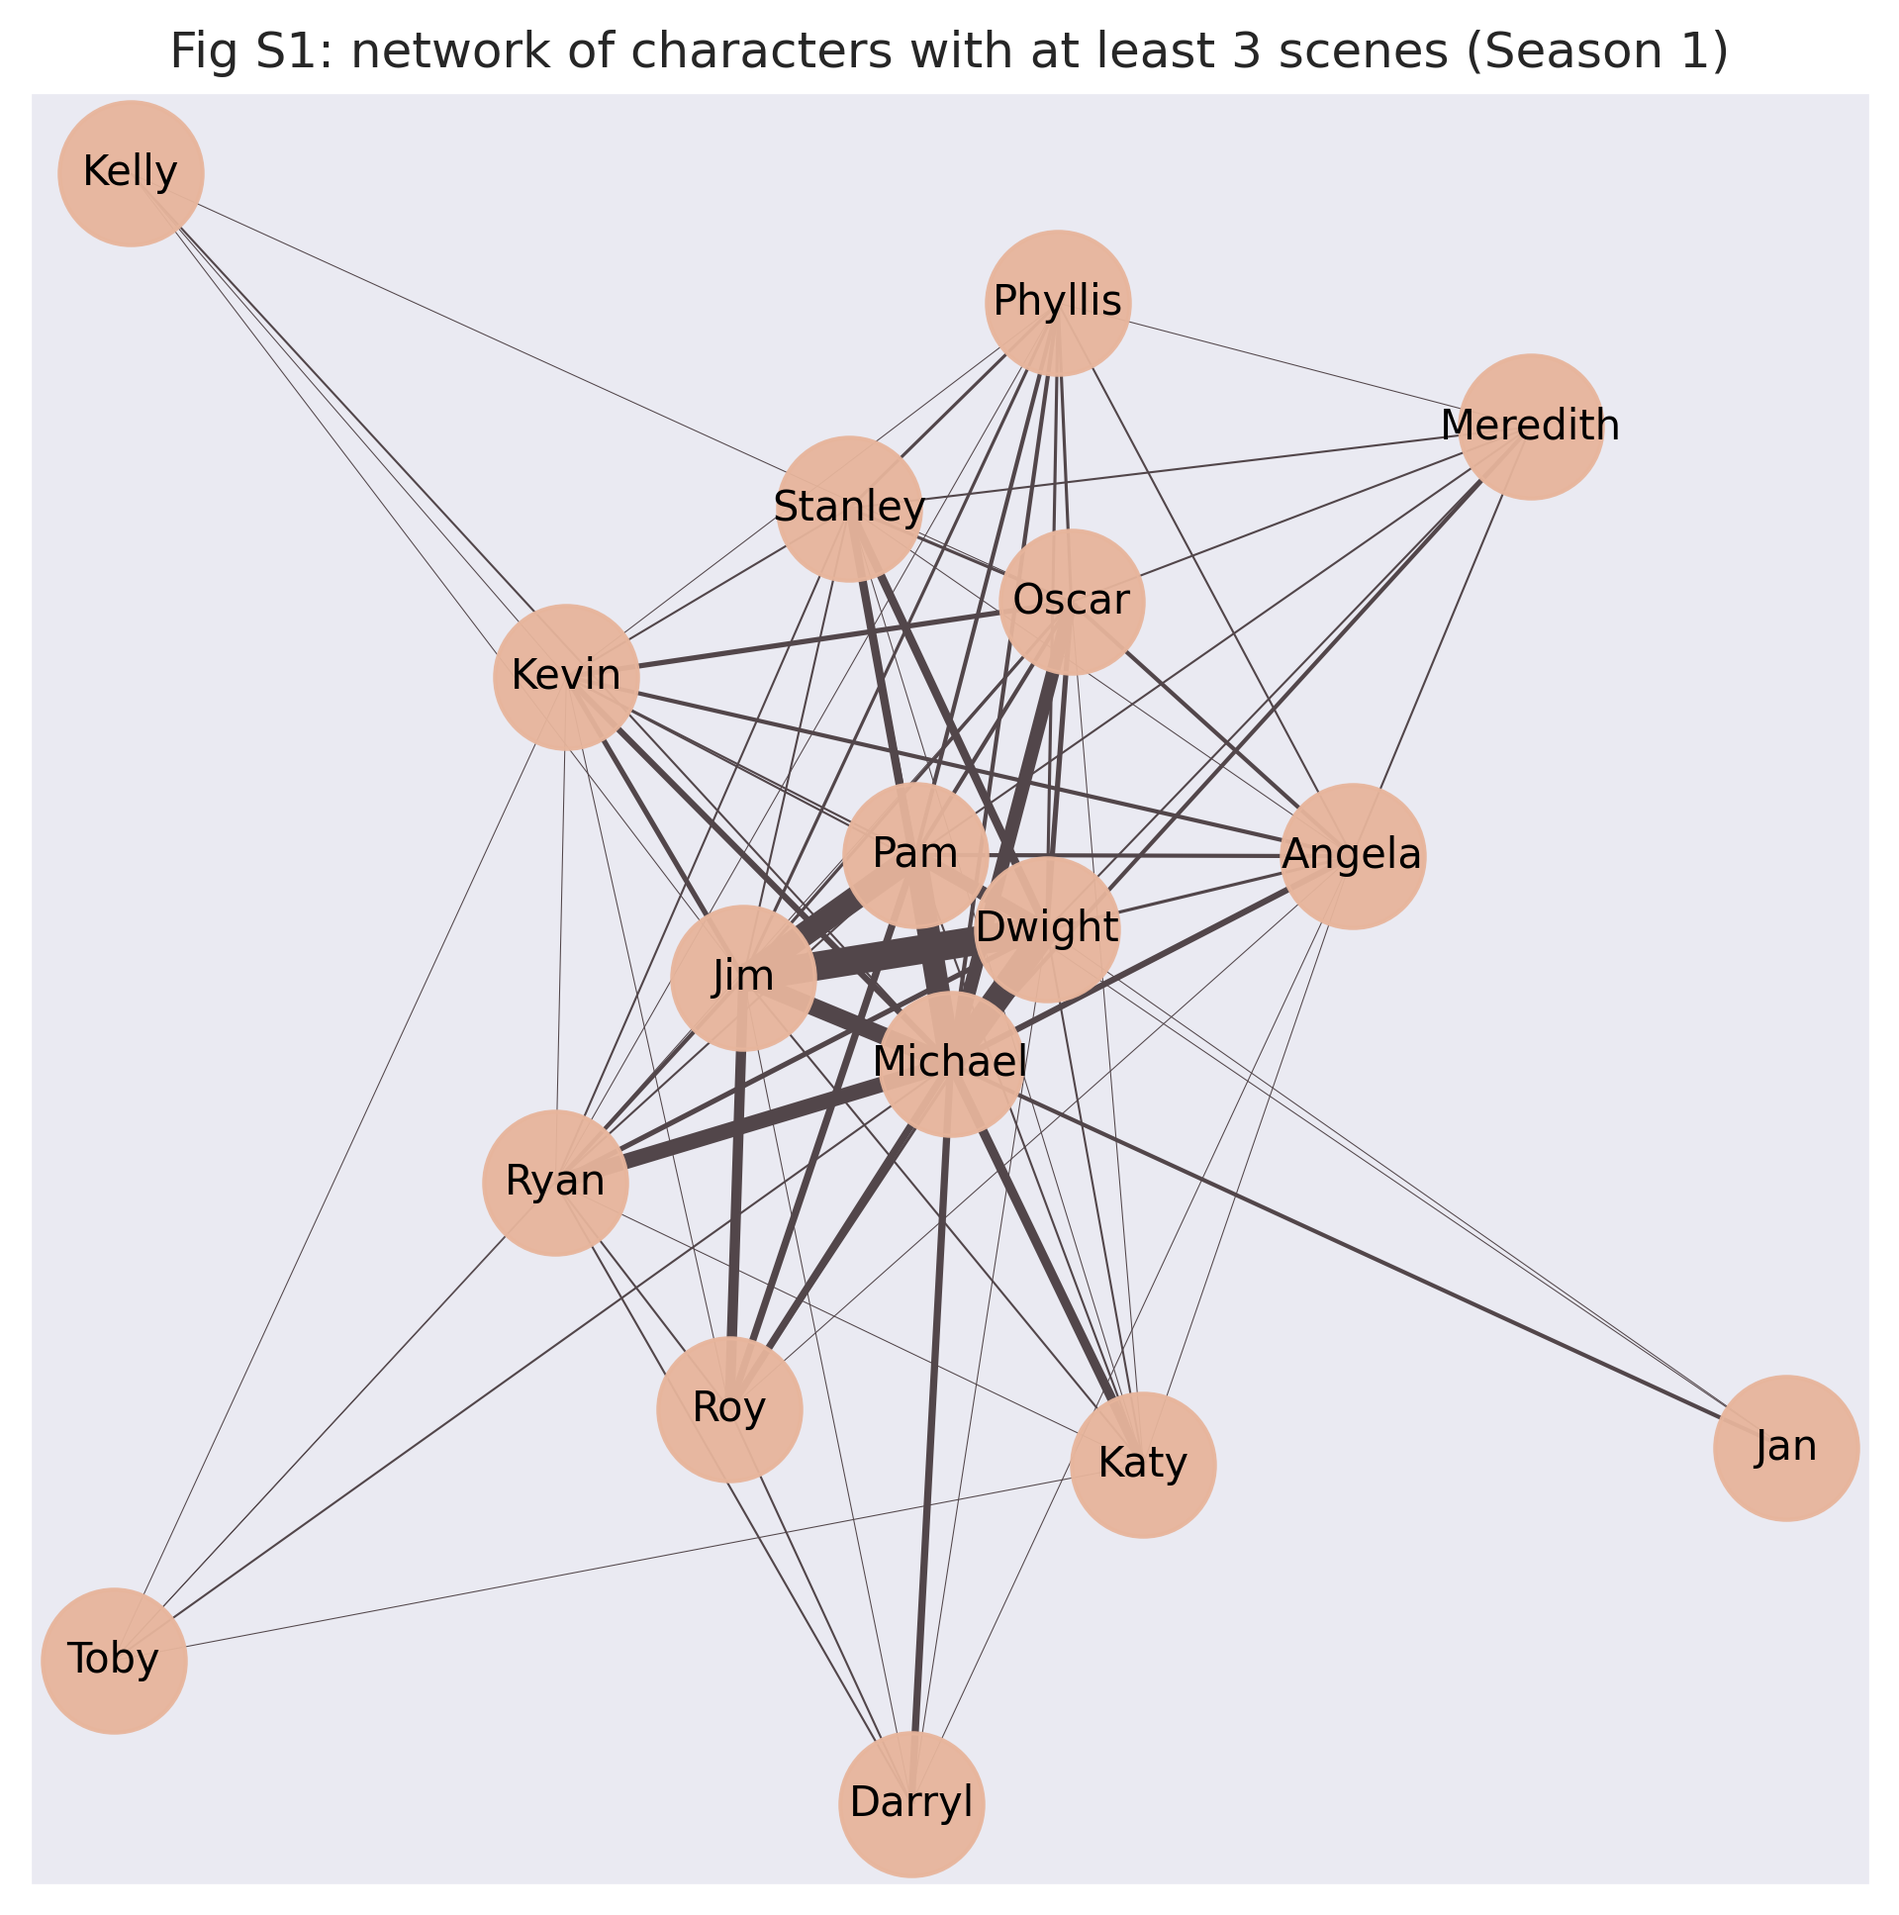
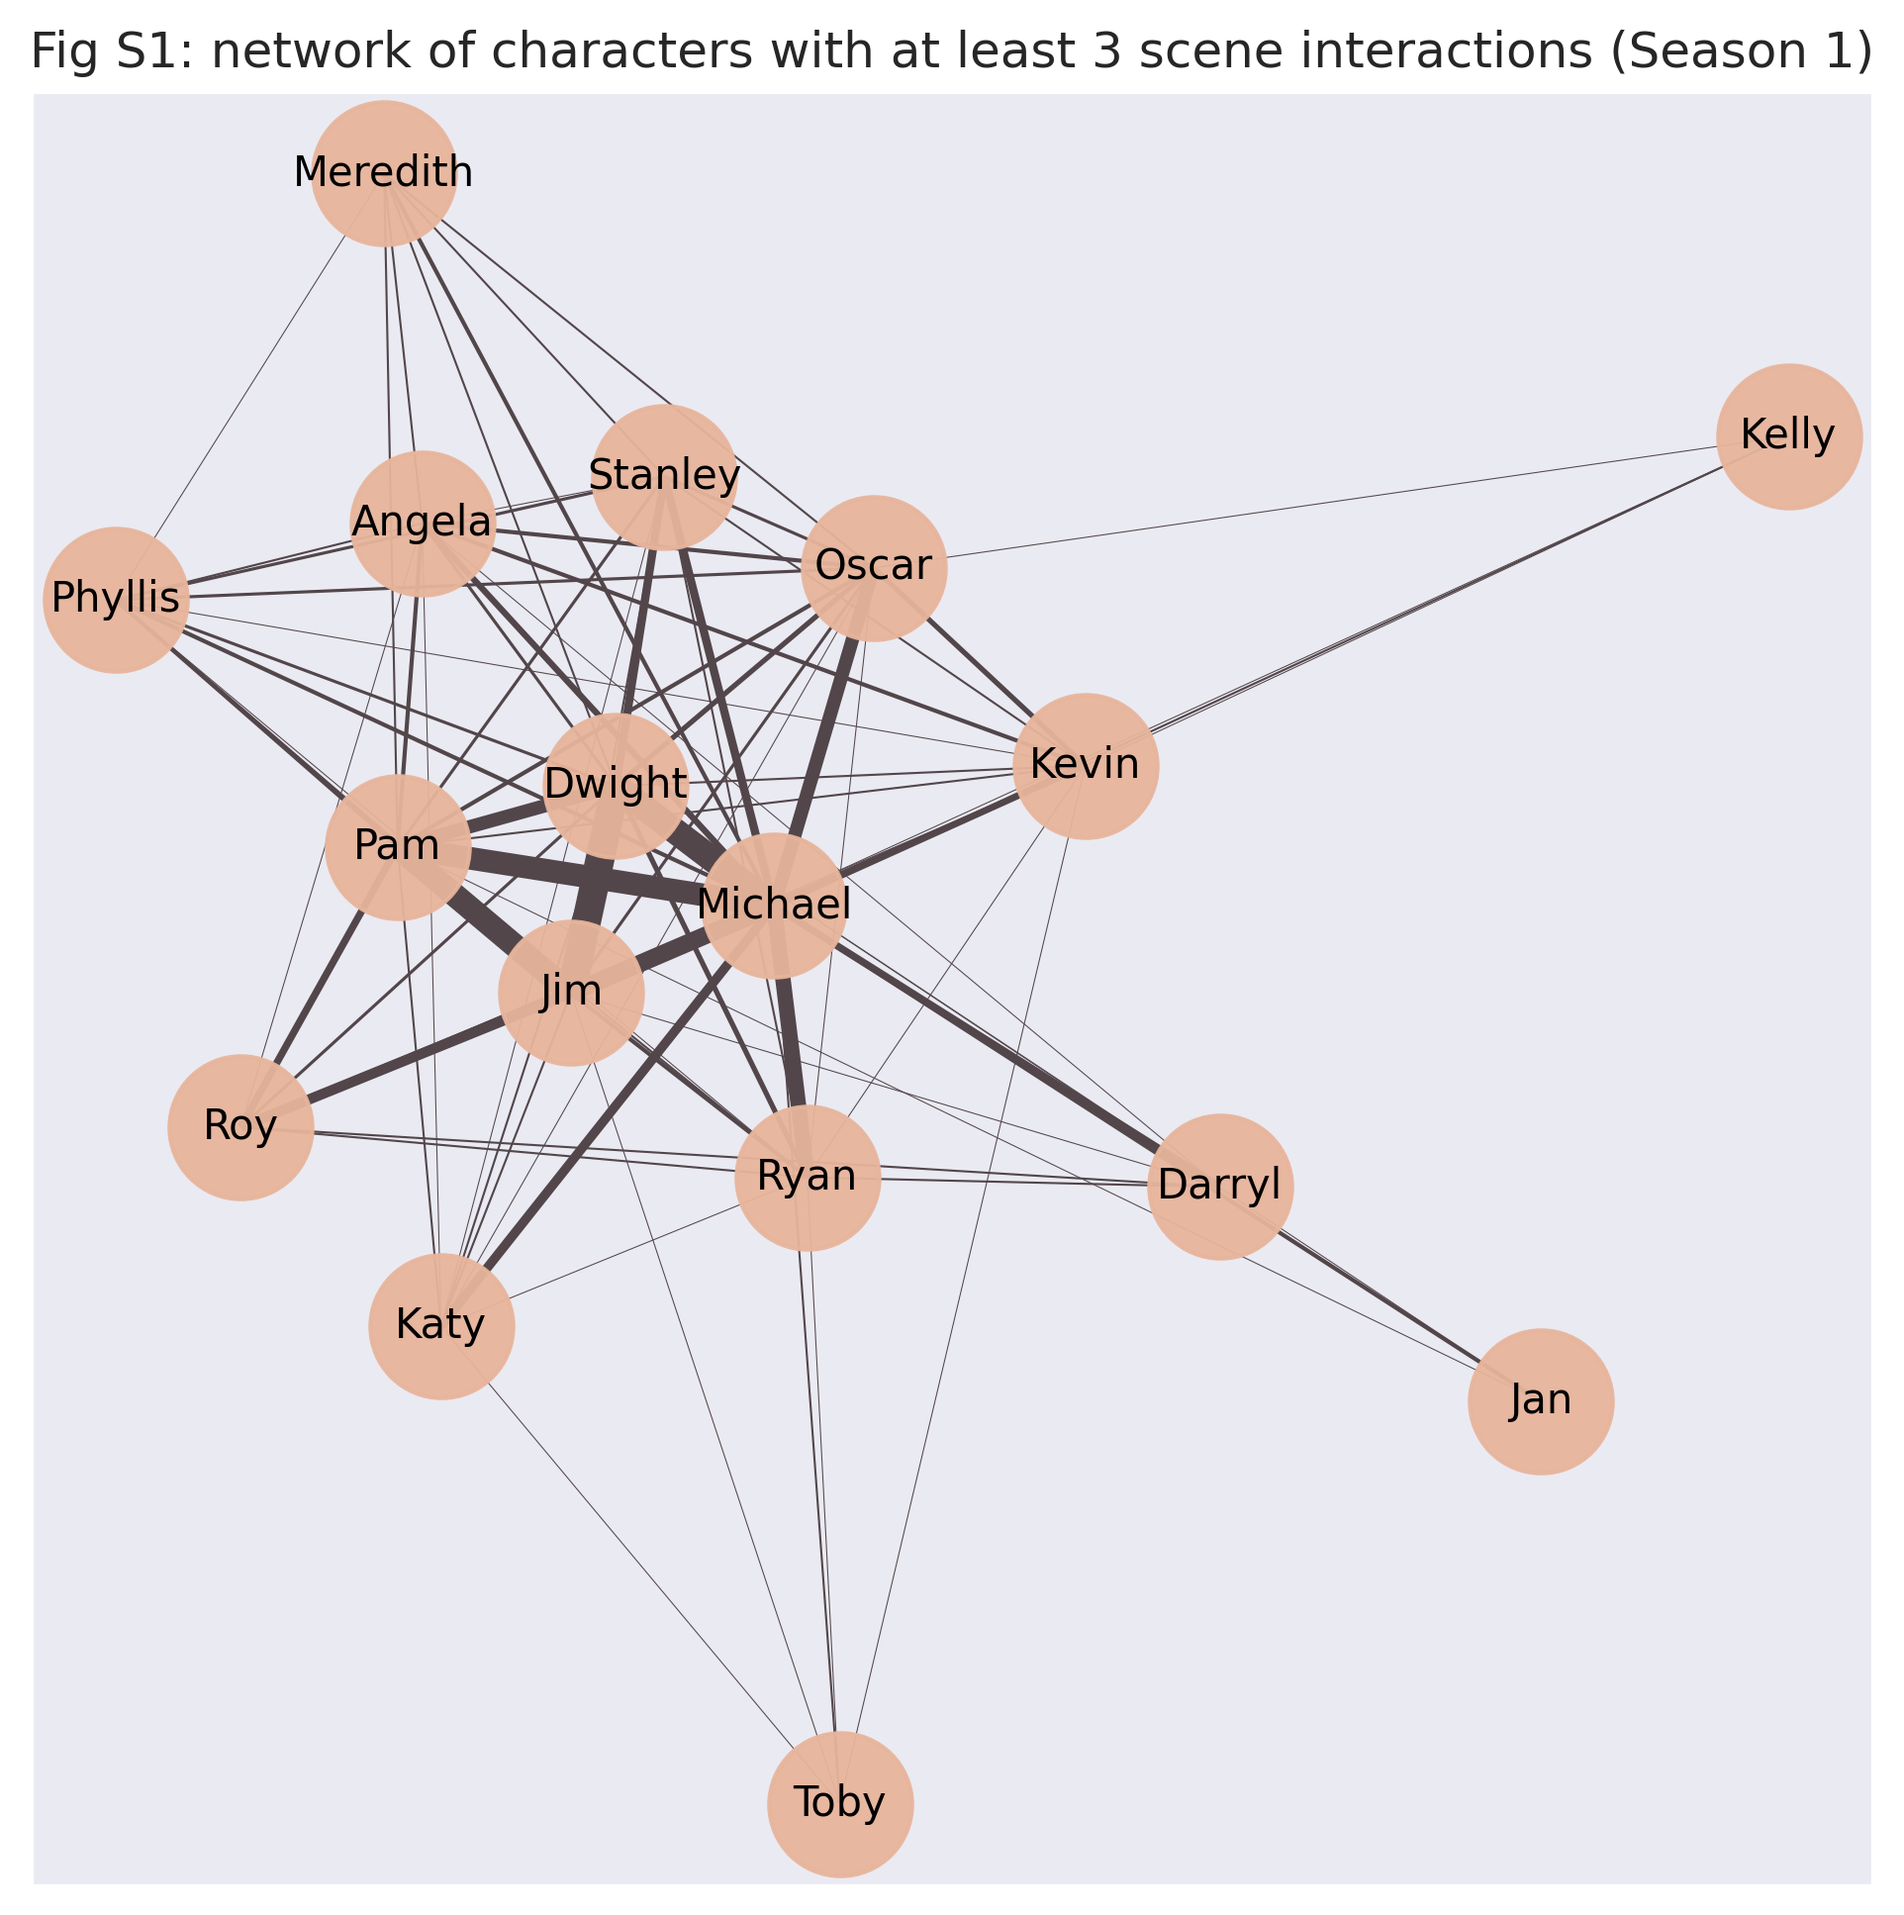
office

diff --git a/webpages/the_office.html b/webpages/the_office.html
@@ -76,47 +76,88 @@
 
 <div class="col-lg-12" id='office'>
   <div class="book">
-    <img src="../img/projects/the_office/the_office.jpg">
+    <img src="../img/projects/the_office/sunday_office.png">
     <div class="bookinfo">
       <p class="title2"> Introduction
       </p>
       <p class="comment">
         Recently, I found <a href="https://www.kaggle.com/nasirkhalid24/the-office-us-complete-dialoguetranscript" target="_blank">The Office (US) transcript dataset
         </a> from Kaggle, which enables me to explore the network
-      relationship among The Office characters throughout the 9 seasons.
+      relationship among The Office characters throughout the 9 seasons. 
+      The Office script contains 8157 scenes across 201 episodes and 9 seasons. The following
+      table shows the episode and scene distribution by season.
       </p>
-<!-- 
-      <table class="table">
+
+      <table class="table col-lg-12">
         <thead>
           <tr>
-            <th scope="col">#</th>
-            <th scope="col">First</th>
-            <th scope="col">Last</th>
-            <th scope="col">Handle</th>
+            <th scope="col">Season</th>
+            <th scope="col">1</th>
+            <th scope="col">2</th>
+            <th scope="col">3</th>
+            <th scope="col">4</th>
+            <th scope="col">5</th>
+            <th scope="col">6</th>
+            <th scope="col">7</th>
+            <th scope="col">8</th>
+            <th scope="col">9</th>
+            <th scope="col">Total</th>
           </tr>
         </thead>
         <tbody>
           <tr>
-            <th scope="row">1</th>
-            <td>Mark</td>
-            <td>Otto</td>
-            <td>@mdo</td>
+            <th scope="row">Total Episodes</th>
+            <td>6</td>
+            <td>22</td>
+            <td>25</td>
+            <td>19</td>
+            <td>28</td>
+            <td>26</td>
+            <td>26</td>
+            <td>24</td>
+            <td>25</td>
+            <td>201</td>
+            
           </tr>
           <tr>
-            <th scope="row">2</th>
-            <td>Jacob</td>
-            <td>Thornton</td>
-            <td>@fat</td>
-          </tr>
-          <tr>
-            <th scope="row">3</th>
-            <td>Larry</td>
-            <td>the Bird</td>
-            <td>@twitter</td>
+            <th scope="row">Total Scenes</th>
+            <td>227</td>
+            <td>991</td>
+            <td>1115</td>
+            <td>726</td>
+            <td>1031</td>
+            <td>1022</td>
+            <td>1012</td>
+            <td>929</td>
+            <td>1104</td>
+            <td>8157</td>
+            
           </tr>
         </tbody>
-      </table> -->
+      </table>
     
+      <p class="comment">Figure 1 and 2 show the top 10 characters with the 
+        most lines and scenes. (A character can have multiple lines in each scene).
+        Among The Office characters, 40 characters have more than 10 scenes.
+        30 characters have more than 50 scenes, and 18 characters have more than 200 scenes.
+      </p>
+      
+      <img id="small" src="../img/projects/the_office/lines.png">
+      <img id="small" src="../img/projects/the_office/scenes.png">
+
+      <p class="comment">Figure 3 shows the top 10 characters with the 
+        most monologue scenes (scenes with only one character). Like those in Figure 1 and 2,
+        the top five spots in Figure 3 are Michael, Dwight, Jim, Pam, and Andy. 
+        Figure 4 shows the top 10 character pairs with the most number of shared scenes.
+        The relationships among Jim, Pam, Michael, and Dwight take the top 6 spots.
+        
+      </p>
+
+      <img id="small2" src="../img/projects/the_office/monologues.png">
+      <img id="small3" src="../img/projects/the_office/pairs.png">
+      
+
+
 
   <p class="title">Character Network by Season</p>
   <p>The following graphs show character network by season.
@@ -127,11 +168,16 @@
     </a> which means that characters who have more shared scenes with other characters (greater centrality) are more likely to appear
     at the center of the graph. Monologue scenes were excluded during the making the network graphs.</p>
     <p>Each of the following tabs of the 9 seasons contains two graphs (except for Season 1 and 4). 
-      The first graph shows characters that appear in at least
-      10 non-monologue scenes. For most seasons, including peripheral characters in the graph causes the core characters to cram together at the center.
-      Therefore, the second graph only shows characters with at least 40 non-monologue scenes, so that we can get a better sense of
+      The first graph shows characters with at least
+      10 scene interactions.
+      For most seasons, having peripheral characters in the graph causes the core characters to cram together at the center.
+      Therefore, the second graph shows only characters with at least 40 scene interactions, so that we can get a better sense of
       the relationship among the core characters. "All Seasons" tab contains 3 graphs to help viewers zoom in from periphery to the central characters.
     </p>
+
+    <p class="note">Note:  A character's total number of "scene interactions" is the sum of the number of other characters
+      in every scene that the character appears in. For character A, interacting with character B in two separate scenes
+      counts as two scene interactions.</p>
 
 
 
@@ -176,12 +222,12 @@
       <p>
         <ul>
           <li>Jim-Dwight-Pam-Michael relationship forms the center of graph.</li>
-          <li>Dwight and Jim has more scenes together than any other character pairs.</li>
+          <li>Dwight and Jim has more scene together than any other character pairs.</li>
           <li>The Angela-Oscar-Kevin triangle forms the accounting department.</li>
           <li>The Pam-Angela-Phyllis triangel forms the party planning committee.</li>
           <li>Creed does not have a single line in scenes of Season 1.</li>
-          <li>Kelly only has 3 scenes, and none with Ryan.</li>
-          <li>Roy has more scenes with Jim than with Pam.</li>
+          <li>Kelly only has 3 scene interactions, and none with Ryan.</li>
+          <li>Roy has more scene interactions with Jim than with Pam.</li>
         </ul>
       </p>
     </div>

diff --git a/webpages/projects.html b/webpages/projects.html
@@ -99,14 +99,14 @@
 
 <div class="col-lg-12" id='office'>
   <div class="book">
-    <img src="../img/projects/photoshop2.png">
+    <img src="../img/projects/photoshop3.png">
     <div class="bookinfo">
       <p class="title"> Network Visualization of The Office (US) Characters
       </p>
       <div class="author"><a href="https://github.com/william-wei-zhu/the_office" target="_blank">[Python Code]
       </a>
-      <!-- <a href="the_office.html">[Detailed Analysis]
-      </a> -->
+      <a href="the_office.html">[Read More]
+      </a>
     
     </div>
       <p class="comment">
@@ -121,10 +121,10 @@
         </a> which means that characters who have more shared scenes with other characters (greater centrality) are more likely to appear
         at the center of the graph.
       </p>
-        <!-- <p class="comment">
-        For a detailed analysis and breakdown by season, 
+        <p class="comment">
+        For more information and season breakdown, 
         <a href="the_office.html"> click this page</a>.
-      </p> -->
+      </p>
 
       <img id="full" src="../img/projects/the_office/all-c.png">
 

diff --git a/webpages/the_office.css b/webpages/the_office.css
@@ -146,8 +146,27 @@ img{
 }
 
 .bookinfo #small{
-  width: 80%;
-  margin-left: 10%;
+  width: 46%;
+  margin-top: 2%;
+  margin-bottom: 2%;
+  margin-left: 1%;
+  margin-right: 1%;
+}
+
+.bookinfo #small2{
+  width: 46%;
+  margin-top: 2%;
+  margin-bottom: 2%;
+  margin-left: 0%;
+  margin-right: 0%;
+}
+
+.bookinfo #small3{
+  width: 52%;
+  margin-top: 2%;
+  margin-bottom: 2%;
+  margin-left: 1%;
+  margin-right: 0%;
 }
 
 .bookinfo #full{
@@ -171,6 +190,18 @@ img{
   padding-top: 1%;
   font-size: 1.5rem;
 }
+
+.bookinfo .table{
+  font-size: 1.4rem;
+  margin-top: 3%;
+  margin-bottom: 3%;
+}
+
+
+.bookinfo .note{
+  font-size: 1.3rem;
+}
+
 
 .bookinfo .nav-pills{
   margin-top: 5%;
